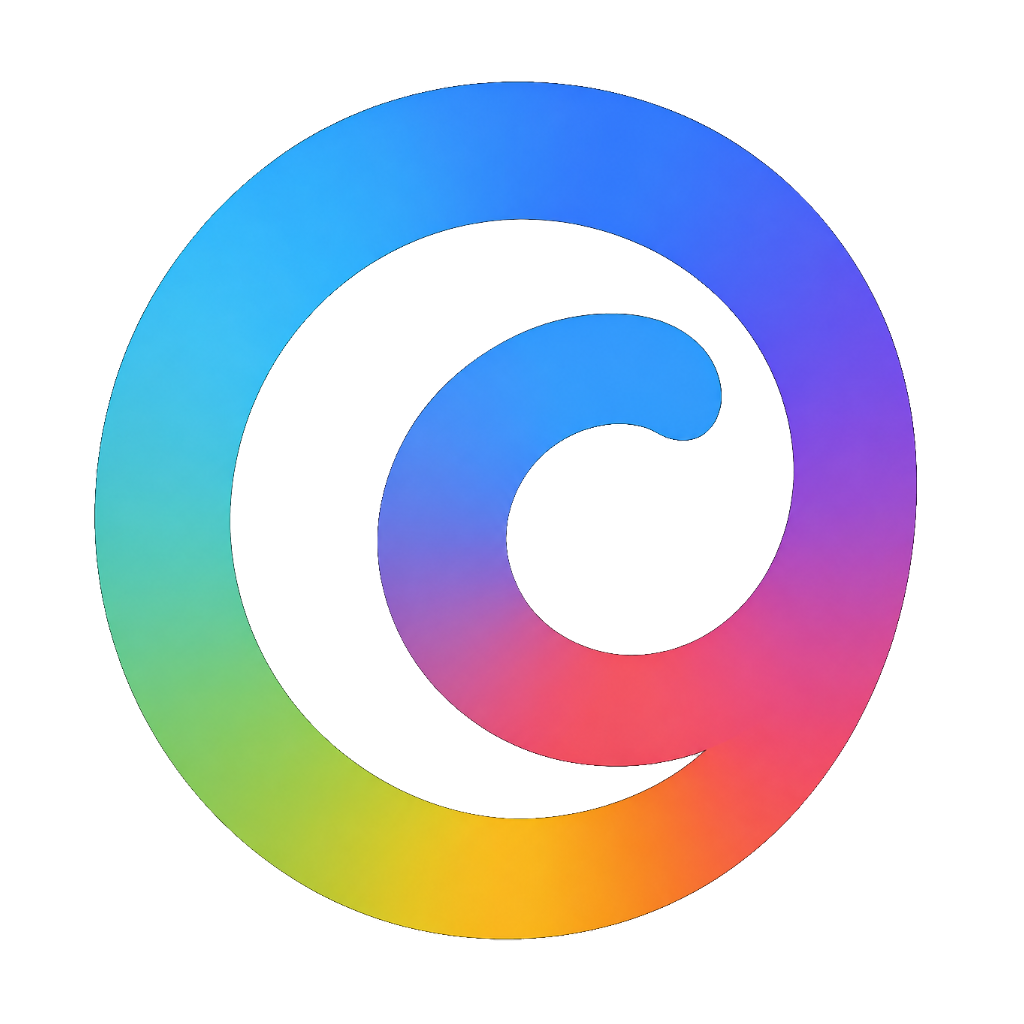
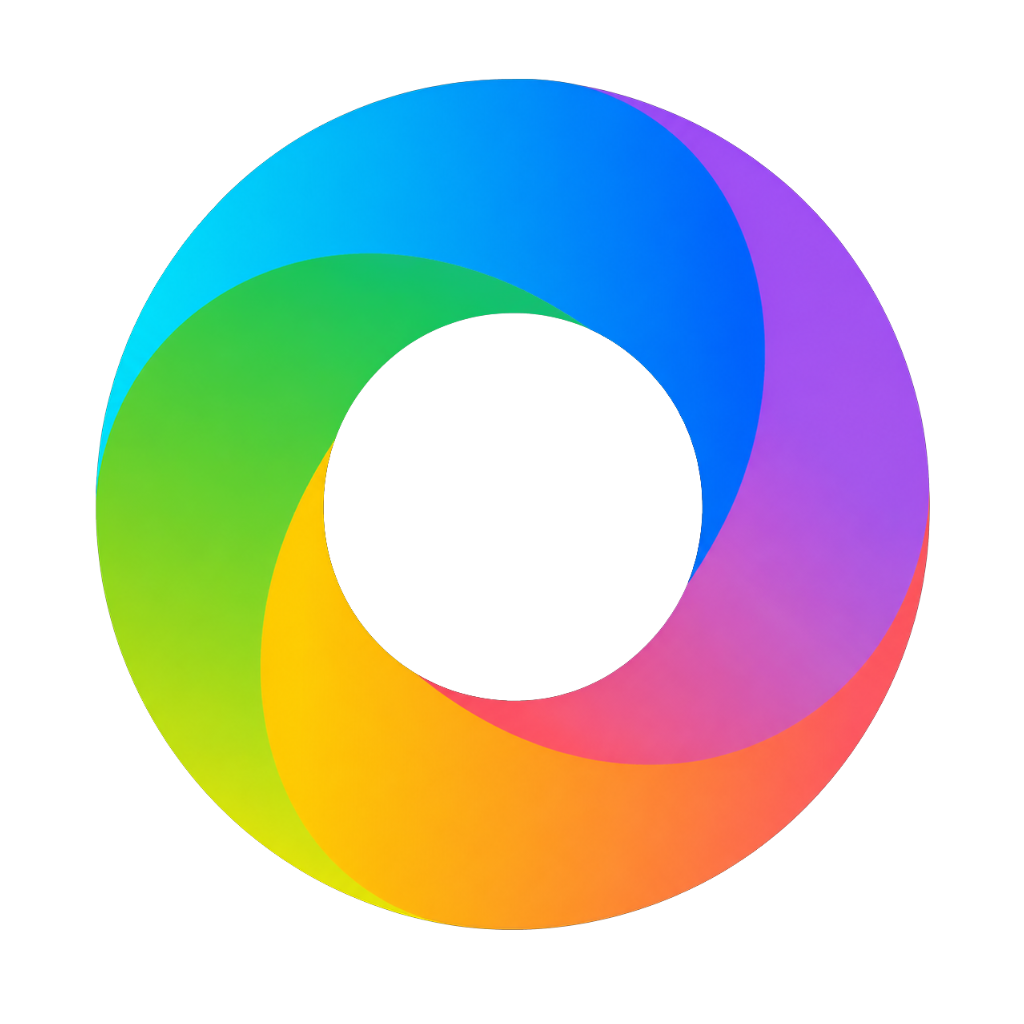
统一无底板彩虹标识并让 Windows 未读数字角标清晰可见
将透明品牌原图作为唯一事实源，桌面与 Android 图标均由同一渲染器派生，避免安装包图标再被当作品牌源二次缩放。

Windows 任务栏使用原生 overlay 呈现黑底白字未读数，托盘保留合成角标与强提醒状态；基础图标始终保持无底板彩虹环。

diff --git a/tests/chatNativeNotificationModel.test.ts b/tests/chatNativeNotificationModel.test.ts
@@ -40,12 +40,15 @@ const { windowsNotificationToastXml } = require("../clients/desktop/notification
     title: string;
   }) => string;
 };
-const { createTrayIconRgba } = require("../clients/desktop/icon-renderer.cjs") as {
-  createTrayIconRgba: (width: number, height: number, options: {
+const { createAppIconRgba, createDesktopShellIconRgba, createUnreadBadgeRgba } = require("../clients/desktop/icon-renderer.cjs") as {
+  createAppIconRgba: (width: number, height: number, options?: { scale?: number }) => Buffer;
+  createDesktopShellIconRgba: (width: number, height: number, options: {
+    context?: "taskbar" | "tray";
     pulse?: boolean;
     state?: "attention" | "normal" | "unread";
     unreadCount?: number;
   }) => Buffer;
+  createUnreadBadgeRgba: (width: number, height: number, unreadCount?: number) => Buffer;
 };
 
 const currentUserId = "user-current";
@@ -870,13 +873,18 @@ test("stripChatNotificationMarkdown removes common formatting without dropping t
   );
 });
 
-test("Win11 attention frames flash the whole high-resolution icon without numeric badges", () => {
+test("Win11 app icon stays transparent while attention owns the numeric badge", () => {
   const size = 128;
-  const normalFrame = createTrayIconRgba(size, size, { state: "attention", pulse: false });
-  const highlightedFrame = createTrayIconRgba(size, size, { state: "attention", pulse: true });
-  const legacyCountFrame = createTrayIconRgba(size, size, { state: "attention", pulse: false, unreadCount: 88 });
+  const appIcon = createAppIconRgba(size, size);
+  const unreadFrame = createDesktopShellIconRgba(size, size, { context: "taskbar", state: "unread", unreadCount: 1 });
+  const secondUnreadFrame = createDesktopShellIconRgba(size, size, { context: "taskbar", state: "unread", unreadCount: 2 });
+  const normalFrame = createDesktopShellIconRgba(size, size, { context: "taskbar", state: "attention", pulse: false, unreadCount: 1 });
+  const highlightedFrame = createDesktopShellIconRgba(size, size, { context: "taskbar", state: "attention", pulse: true, unreadCount: 1 });
+  const overlayFrame = createUnreadBadgeRgba(32, 32, 1);
+  const secondOverlayFrame = createUnreadBadgeRgba(32, 32, 2);
   const bounds = opaquePixelBounds(normalFrame, size);
 
+  assert.deepEqual(createDesktopShellIconRgba(size, size, { state: "normal" }), appIcon);
   assert.equal(normalFrame.length, size * size * 4);
   assert.equal(highlightedFrame.length, size * size * 4);
   assert.ok(bounds.width >= size * 0.8);
@@ -885,18 +893,21 @@ test("Win11 attention frames flash the whole high-resolution icon without numeri
   assert.equal(normalFrame[(size - 1) * 4 + 3], 0);
   assert.ok(changedPixelRatio(normalFrame, highlightedFrame, size) > 0.85);
   assert.ok(changedPixelRatio(normalFrame, highlightedFrame, size, 0.15) > 0.95);
-  assert.deepEqual(legacyCountFrame, normalFrame);
+  assert.ok(changedPixelRatio(appIcon, unreadFrame, size) > 0.04);
+  assert.ok(changedPixelRatio(unreadFrame, secondUnreadFrame, size) > 0.001);
+  assert.ok(changedPixelRatio(overlayFrame, secondOverlayFrame, 32) > 0.001);
 });
 
-test("Win11 desktop shell uses separate crisp taskbar and tray sizes with no numeric overlay", () => {
+test("Win11 desktop shell composes one top-right numeric badge for separate taskbar and tray sizes", () => {
   const source = readFileSync(new URL("../clients/desktop/main.cjs", import.meta.url), "utf8");
 
   assert.match(source, /DESKTOP_TASKBAR_ICON_BITMAP_SIZE = 32/);
   assert.match(source, /DESKTOP_TRAY_ICON_BITMAP_SIZE = 16/);
+  assert.match(source, /const baseState = state === "attention" && pulse \? "attention" : "normal"/);
   assert.match(source, /targetWindow\.setIcon\(createDesktopTaskbarIconImage\(state, pulse\)\)/);
   assert.match(source, /tray\.setImage\(createDesktopTrayIconImage\(state, pulse\)\)/);
-  assert.match(source, /targetWindow\.setOverlayIcon\(null, ""\)/);
-  assert.doesNotMatch(source, /createUnreadBadgeRgba/);
+  assert.match(source, /unreadCount: desktopAttentionBadgeCount\(\)/);
+  assert.match(source, /attentionCount > 0 \? createDesktopTaskbarOverlayIconImage\(attentionCount\) : null/);
 });
 
 test("Win11 desktop windows wait for their first rendered frame before becoming visible", () => {
